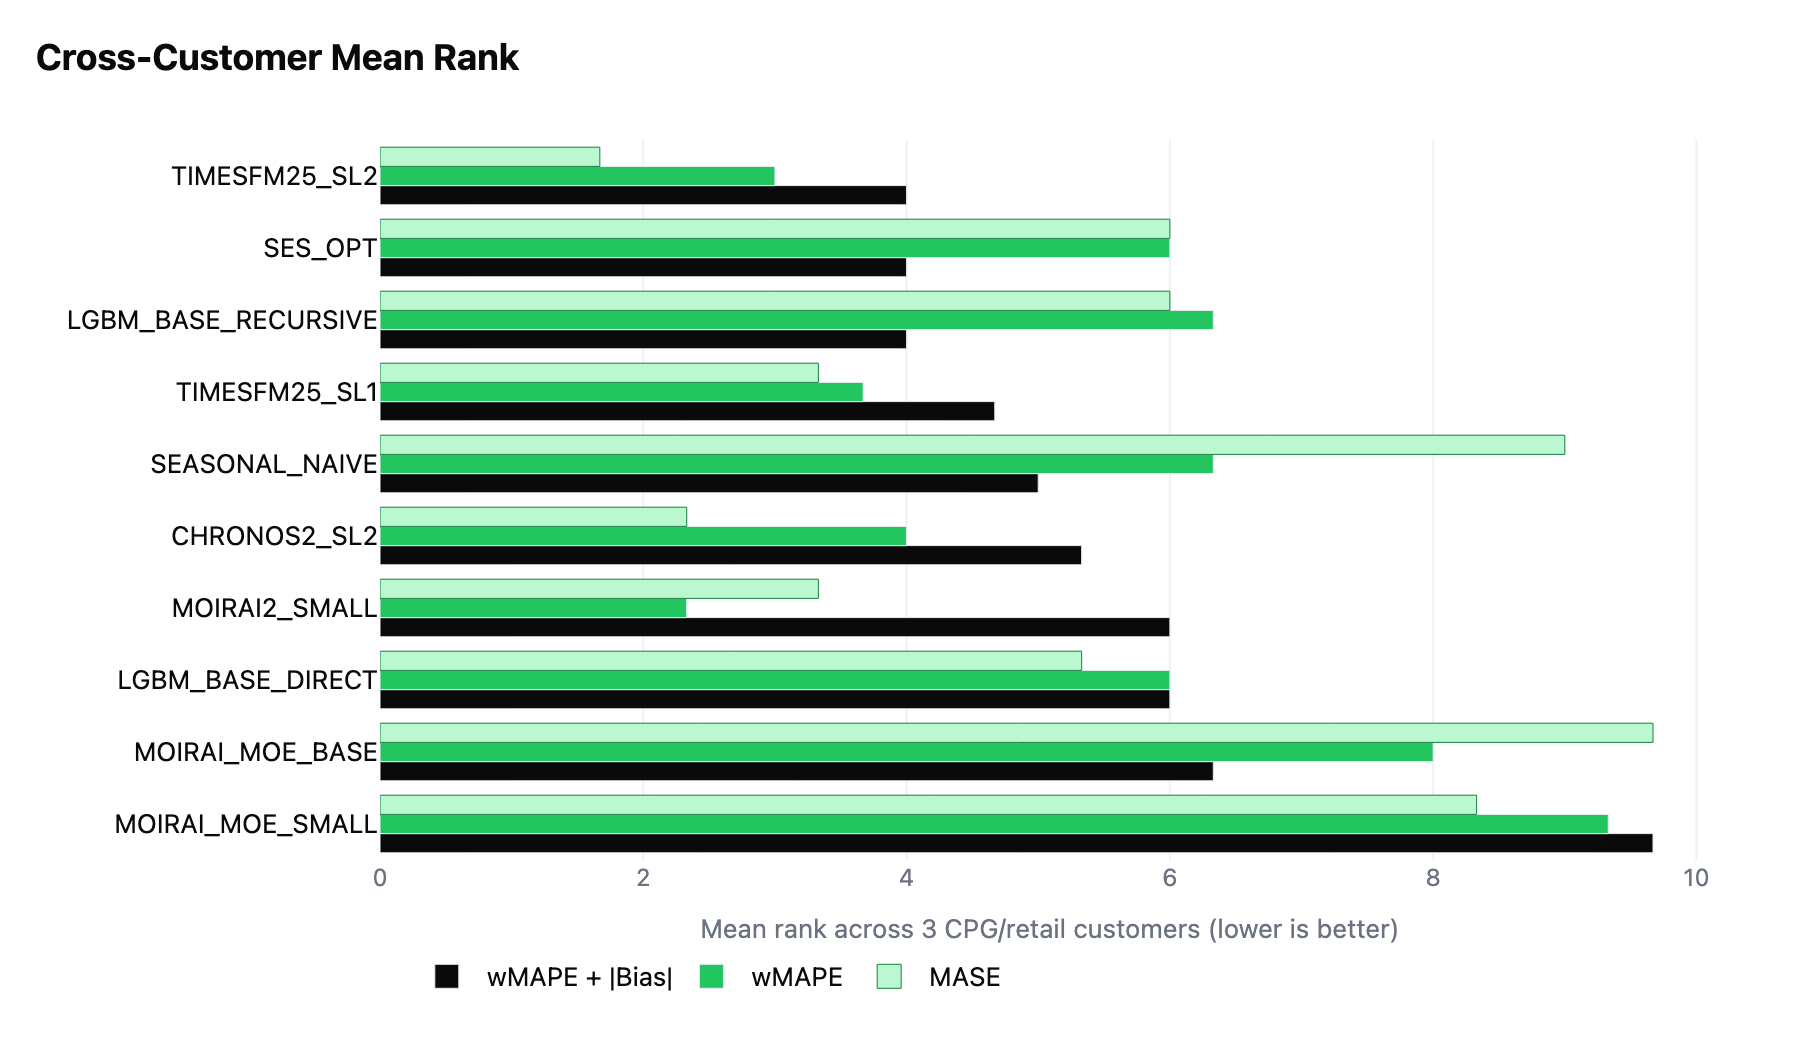
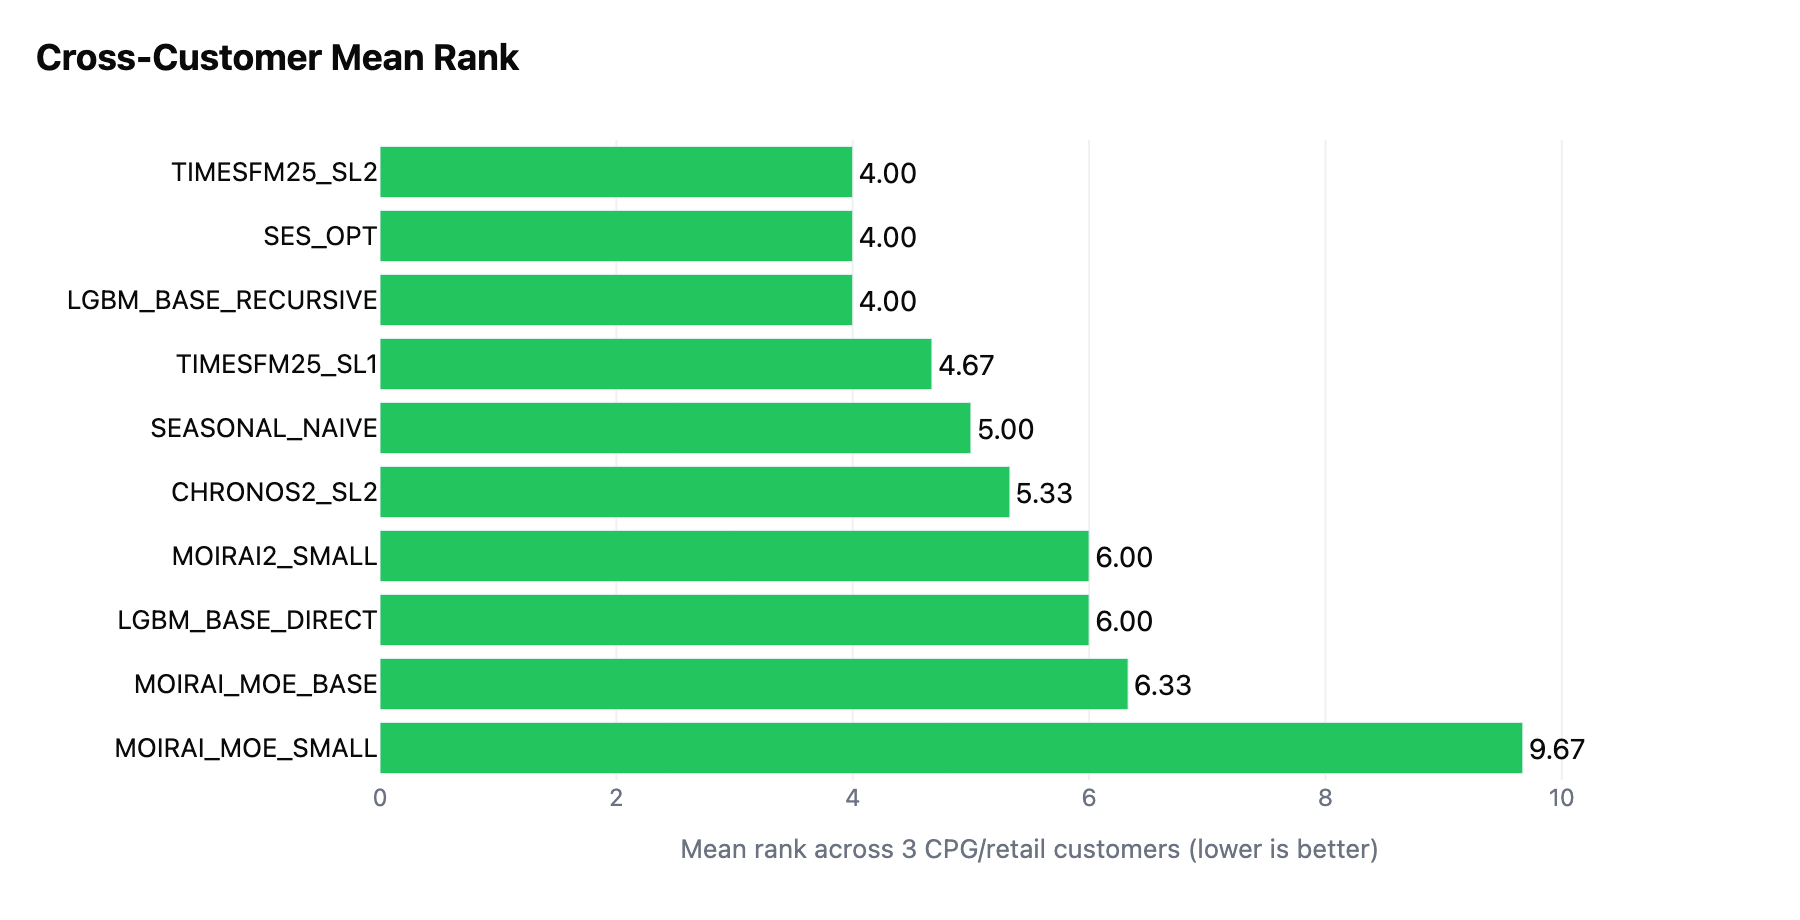
Simplify Cross-Customer chart to single composite-rank bar
3-series grouped bar (composite/wMAPE/MASE) was confusing at a glance.
Drop to one bar per model on mean composite rank, matches both
index.html overview chart and the README PNG.

diff --git a/index.html b/index.html
@@ -196,48 +196,38 @@
     'TIMESFM25_SL1','LGBM_BASE_RECURSIVE','SES_OPT','TIMESFM25_SL2'
   ];
   const CROSS = {
-    'TIMESFM25_SL2':       { composite: 4.00, wmape: 3.00, mase: 1.67 },
-    'SES_OPT':             { composite: 4.00, wmape: 6.00, mase: 6.00 },
-    'LGBM_BASE_RECURSIVE': { composite: 4.00, wmape: 6.33, mase: 6.00 },
-    'TIMESFM25_SL1':       { composite: 4.67, wmape: 3.67, mase: 3.33 },
-    'SEASONAL_NAIVE':      { composite: 5.00, wmape: 6.33, mase: 9.00 },
-    'CHRONOS2_SL2':        { composite: 5.33, wmape: 4.00, mase: 2.33 },
-    'MOIRAI2_SMALL':       { composite: 6.00, wmape: 2.33, mase: 3.33 },
-    'LGBM_BASE_DIRECT':    { composite: 6.00, wmape: 6.00, mase: 5.33 },
-    'MOIRAI_MOE_BASE':     { composite: 6.33, wmape: 8.00, mase: 9.67 },
-    'MOIRAI_MOE_SMALL':    { composite: 9.67, wmape: 9.33, mase: 8.33 },
+    'TIMESFM25_SL2':       { composite: 4.00 },
+    'SES_OPT':             { composite: 4.00 },
+    'LGBM_BASE_RECURSIVE': { composite: 4.00 },
+    'TIMESFM25_SL1':       { composite: 4.67 },
+    'SEASONAL_NAIVE':      { composite: 5.00 },
+    'CHRONOS2_SL2':        { composite: 5.33 },
+    'MOIRAI2_SMALL':       { composite: 6.00 },
+    'LGBM_BASE_DIRECT':    { composite: 6.00 },
+    'MOIRAI_MOE_BASE':     { composite: 6.33 },
+    'MOIRAI_MOE_SMALL':    { composite: 9.67 },
   };
 
-  Plotly.newPlot('chart-overview', [
-    {
-      type: 'bar', orientation: 'h', name: 'wMAPE + |Bias|',
-      y: CROSS_MODELS, x: CROSS_MODELS.map(m => CROSS[m].composite),
-      marker: { color: '#0a0a0a' }
-    },
-    {
-      type: 'bar', orientation: 'h', name: 'wMAPE',
-      y: CROSS_MODELS, x: CROSS_MODELS.map(m => CROSS[m].wmape),
-      marker: { color: '#22c55e' }
-    },
-    {
-      type: 'bar', orientation: 'h', name: 'MASE',
-      y: CROSS_MODELS, x: CROSS_MODELS.map(m => CROSS[m].mase),
-      marker: { color: '#bbf7d0', line: { color: '#15803d', width: 0.5 } }
-    }
-  ], {
+  Plotly.newPlot('chart-overview', [{
+    type: 'bar', orientation: 'h',
+    y: CROSS_MODELS, x: CROSS_MODELS.map(m => CROSS[m].composite),
+    text: CROSS_MODELS.map(m => CROSS[m].composite.toFixed(2)),
+    textposition: 'outside',
+    textfont: { color: '#0a0a0a', size: 12 },
+    marker: { color: '#22c55e' },
+    hovertemplate: '<b>%{y}</b><br>Mean rank: %{x:.2f}<extra></extra>'
+  }], {
     title: { text: '<b>Cross-Customer Mean Rank</b>', font: { size: 16, color: '#0a0a0a' }, x: 0.02, xanchor: 'left' },
-    barmode: 'group',
     xaxis: {
       title: { text: 'Mean rank across 3 CPG/retail customers (lower is better)', font: { size: 12, color: '#6b7280' } },
       showgrid: true, gridcolor: 'rgba(10,10,10,0.06)', zeroline: false,
       tickfont: { size: 11, color: '#6b7280' }
     },
     yaxis: { showgrid: false, tickfont: { size: 12, color: '#0a0a0a' } },
-    legend: { orientation: 'h', x: 0.02, y: -0.15, font: { size: 12 } },
     plot_bgcolor: 'white', paper_bgcolor: 'white',
     font: FONT,
-    margin: { t: 60, l: 185, r: 40, b: 90 },
-    height: 480
+    margin: { t: 60, l: 185, r: 60, b: 50 },
+    height: 420
   }, { responsive: true });
 </script>
 </body>
